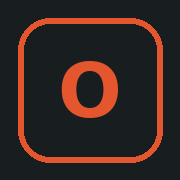
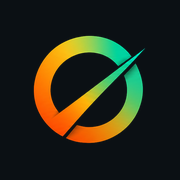
Add files via upload

diff --git a/index.html b/index.html
@@ -7,21 +7,26 @@
 <link rel="manifest" href="manifest.json">
 <link rel="icon" href="icon-192.png" type="image/png">
 <link rel="apple-touch-icon" href="icon-180.png">
-<meta name="theme-color" content="#E4572E">
+<meta name="theme-color" content="#0B1014">
 <link rel="preconnect" href="https://fonts.googleapis.com">
-<link href="https://fonts.googleapis.com/css2?family=Barlow+Condensed:wght@500;600;700&family=Inter:wght@400;500;600;700&family=JetBrains+Mono:wght@500;600&display=swap" rel="stylesheet">
+<link href="https://fonts.googleapis.com/css2?family=Sora:wght@500;600;700&family=Inter:wght@400;500;600;700&family=JetBrains+Mono:wght@500;600&display=swap" rel="stylesheet">
 <style>
   :root{
-    --bg:#181D20; --surface:#20272B; --surface2:#2A3237; --border:#3A434A;
-    --text:#ECEFEF; --text-muted:#8B979E; --accent:#E4572E; --accent-dim:#B8431F;
-    --ok:#4F9D69; --warn:#D9A441; --danger:#C1443A;
-    --font-head:'Barlow Condensed',sans-serif; --font-body:'Inter',sans-serif; --font-mono:'JetBrains Mono',monospace;
+    --bg:#0B1014; --surface:#121A20; --surface2:#1A242C; --border:#27343E;
+    --text:#EEF3F5; --text-muted:#8A9AA5; --accent:#FF7A1A; --accent-dim:#E0590A;
+    --ok:#22D39A; --warn:#FFB21F; --danger:#FF5468;
+    --on-accent:#0B1014; --brand-grad:linear-gradient(135deg,#FF5B02 0%,#FF9A0A 55%,#FFB800 100%);
+    --ok-bg:rgba(34,211,154,0.15); --warn-bg:rgba(255,178,31,0.16); --danger-bg:rgba(255,84,104,0.16);
+    --font-head:'Sora',sans-serif; --font-body:'Inter',sans-serif; --font-mono:'JetBrains Mono',monospace;
   }
   :root[data-theme="light"]{
-    --bg:#F5F3EF; --surface:#FFFFFF; --surface2:#ECE8E1; --border:#DAD5CC;
-    --text:#22282B; --text-muted:#6B7378; --accent:#D14E27; --accent-dim:#B8431F;
-    --ok:#3D8256; --warn:#B8811F; --danger:#B23A30;
+    --bg:#F3F6F7; --surface:#FFFFFF; --surface2:#E8EEF0; --border:#D3DCE1;
+    --text:#0F1A20; --text-muted:#5A6A74; --accent:#D94F00; --accent-dim:#B54000;
+    --ok:#0C8A63; --warn:#A86A00; --danger:#C4243A;
+    --ok-bg:rgba(12,138,99,0.12); --warn-bg:rgba(168,106,0,0.13); --danger-bg:rgba(196,36,58,0.11);
   }
+  .logo-wm{display:block;height:auto;}
+  :root[data-theme="light"] .logo-wm{filter:brightness(0) saturate(100%);opacity:.9;}
   .pw-rules{margin:8px 0 2px;padding:0;list-style:none;font-size:12px;color:var(--text-muted);}
   .pw-rules li{display:flex;align-items:center;gap:8px;padding:2px 0;transition:color .15s;}
   .pw-rules .box{width:16px;height:16px;border:1.5px solid var(--border);border-radius:4px;display:inline-flex;align-items:center;justify-content:center;font-size:11px;line-height:1;color:transparent;flex-shrink:0;transition:all .15s;}
@@ -31,7 +36,7 @@
   html,body{margin:0;padding:0;max-width:100%;overflow-x:hidden;background:var(--bg);color:var(--text);font-family:var(--font-body);height:100%;}
   body{padding-bottom:calc(120px + env(safe-area-inset-bottom));min-height:100vh;}
   h1,h2,h3{font-family:var(--font-head);font-weight:600;letter-spacing:0.2px;margin:0 0 4px 0;}
-  h1{font-size:26px;} h2{font-size:20px;} h3{font-size:16px;color:var(--text-muted);font-weight:600;}
+  h1{font-size:24px;} h2{font-size:18px;} h3{font-size:15px;color:var(--text-muted);font-weight:600;}
   p{margin:0;} a{color:var(--accent);}
   button{font-family:var(--font-body);cursor:pointer;border:none;}
   input,select,textarea{font-family:var(--font-body);}
@@ -39,7 +44,7 @@
   .topbar .brand{display:flex;flex-direction:row;align-items:center;}
   .topbar .brand small{color:var(--text-muted);font-size:11px;text-transform:uppercase;letter-spacing:1px;}
   .user-chip{display:flex;align-items:center;gap:8px;background:var(--surface);border:1px solid var(--border);border-radius:20px;padding:6px 12px 6px 6px;cursor:pointer;}
-  .user-dot{width:26px;height:26px;border-radius:50%;background:var(--accent);color:#fff;display:flex;align-items:center;justify-content:center;font-size:12px;font-weight:700;font-family:var(--font-head);flex-shrink:0;}
+  .user-dot{width:26px;height:26px;border-radius:50%;background:var(--brand-grad);color:var(--on-accent);display:flex;align-items:center;justify-content:center;font-size:12px;font-weight:700;font-family:var(--font-head);flex-shrink:0;}
   .user-chip .role{font-size:10px;color:var(--text-muted);text-transform:uppercase;letter-spacing:0.5px;display:block;}
   .user-chip .name{font-size:13px;font-weight:600;}
   main{padding:16px;padding-bottom:32px;max-width:640px;margin:0 auto;}
@@ -73,7 +78,7 @@
   .field input:focus,.field select:focus,.field textarea:focus{outline:none;border-color:var(--accent);}
   .field textarea{resize:vertical;min-height:70px;}
   .btn{display:inline-flex;align-items:center;justify-content:center;gap:8px;padding:12px 18px;border-radius:8px;font-size:14px;font-weight:600;width:100%;}
-  .btn-primary{background:var(--accent);color:#fff;} .btn-primary:active{background:var(--accent-dim);}
+  .btn-primary{background:var(--brand-grad);color:var(--on-accent);} .btn-primary:active{filter:brightness(.9);}
   .btn-primary:disabled{opacity:0.5;}
   .btn-secondary{background:var(--surface2);color:var(--text);border:1px solid var(--border);}
   .btn-ghost{background:transparent;color:var(--accent);padding:10px;}
@@ -81,9 +86,9 @@
   .btn-row{display:flex;gap:10px;margin-top:4px;flex-wrap:wrap;}
   .btn-row .btn{flex:1;min-width:110px;}
   .badge{font-size:10px;text-transform:uppercase;letter-spacing:0.5px;padding:3px 8px;border-radius:20px;font-weight:700;}
-  .badge-ok{background:rgba(79,157,105,0.18);color:var(--ok);}
-  .badge-warn{background:rgba(217,164,65,0.18);color:var(--warn);}
-  .badge-danger{background:rgba(193,68,58,0.18);color:var(--danger);}
+  .badge-ok{background:var(--ok-bg);color:var(--ok);}
+  .badge-warn{background:var(--warn-bg);color:var(--warn);}
+  .badge-danger{background:var(--danger-bg);color:var(--danger);}
   .mono{overflow-wrap:anywhere;font-family:var(--font-mono);font-size:13px;letter-spacing:0.3px;}
   .muted{color:var(--text-muted);font-size:13px;}
   .thumb{width:56px;height:56px;border-radius:8px;object-fit:cover;background:var(--surface2);border:1px solid var(--border);flex-shrink:0;}
@@ -93,7 +98,7 @@
   .search input{flex:1;background:var(--surface);border:1px solid var(--border);color:var(--text);border-radius:8px;padding:10px 12px;font-size:14px;}
   .filter-chips{display:flex;gap:6px;overflow-x:auto;margin-bottom:14px;padding-bottom:2px;}
   .chip{flex-shrink:0;padding:7px 13px;border-radius:20px;font-size:12px;font-weight:600;background:var(--surface);border:1px solid var(--border);color:var(--text-muted);}
-  .chip.active{background:var(--accent);color:#fff;border-color:var(--accent);}
+  .chip.active{background:var(--brand-grad);color:var(--on-accent);border-color:transparent;font-weight:700;}
   .navbar{position:fixed;bottom:0;left:0;right:0;background:var(--surface);border-top:1px solid var(--border);display:flex;z-index:10;padding-bottom:env(safe-area-inset-bottom);}
   .navitem{flex:1;display:flex;flex-direction:column;align-items:center;gap:2px;padding:9px 1px 7px;color:var(--text-muted);font-size:8.8px;text-transform:uppercase;letter-spacing:0.2px;font-weight:600;background:transparent;}
   .navitem.active{color:var(--accent);}
@@ -115,12 +120,12 @@
   .role-opt{display:flex;align-items:center;justify-content:space-between;background:var(--surface2);border:1px solid var(--border);border-radius:8px;padding:13px 14px;}
   .qr-status{font-size:13px;padding:10px 12px;border-radius:8px;margin-bottom:12px;}
   .qr-status.info{background:rgba(139,151,158,0.12);color:var(--text-muted);}
-  .qr-status.ok{background:rgba(79,157,105,0.15);color:var(--ok);}
-  .qr-status.err{background:rgba(193,68,58,0.15);color:var(--danger);}
+  .qr-status.ok{background:var(--ok-bg);color:var(--ok);}
+  .qr-status.err{background:var(--danger-bg);color:var(--danger);}
   .toast{position:fixed;bottom:84px;left:50%;transform:translateX(-50%);background:var(--surface2);border:1px solid var(--border);color:var(--text);padding:11px 18px;border-radius:20px;font-size:13px;font-weight:600;z-index:30;box-shadow:0 6px 20px rgba(0,0,0,0.4);max-width:88vw;text-align:center;}
   .tabs{display:flex;gap:6px;background:var(--surface);border:1px solid var(--border);border-radius:10px;padding:4px;margin-bottom:18px;}
   .tab{flex:1;text-align:center;padding:10px;border-radius:7px;font-size:13px;font-weight:600;color:var(--text-muted);background:transparent;}
-  .tab.active{background:var(--accent);color:#fff;}
+  .tab.active{background:var(--brand-grad);color:var(--on-accent);}
   .code-display{font-family:var(--font-mono);font-size:24px;letter-spacing:4px;text-align:center;padding:14px;background:var(--surface2);border:1px dashed var(--border);border-radius:8px;margin:10px 0;}
   .journal-item{padding:11px 0;border-bottom:1px solid var(--border);}
   .journal-item:last-child{border-bottom:none;}
@@ -156,7 +161,7 @@ const sb = (function(){
         '<div style="padding:60px 24px;text-align:center;max-width:420px;margin:0 auto;color:#ECEFEF;font-family:sans-serif;">'
         + "<h2 style=\"font-family:sans-serif;\">Impossible de charger l'application</h2>"
         + '<p style="color:#8B979E;margin:14px 0;font-size:14px;">' + e.message + '</p>'
-        + '<button onclick="location.reload()" style="background:#E4572E;color:#fff;border:none;padding:12px 20px;border-radius:8px;font-weight:600;font-size:14px;">Réessayer</button>'
+        + '<button onclick="location.reload()" style="background:linear-gradient(135deg,#FF5B02,#FFB800);color:#0B1014;border:none;padding:12px 20px;border-radius:8px;font-weight:600;font-size:14px;">Réessayer</button>'
         + '</div>';
     });
     if(document.readyState !== 'loading'){
@@ -164,7 +169,7 @@ const sb = (function(){
         '<div style="padding:60px 24px;text-align:center;max-width:420px;margin:0 auto;color:#ECEFEF;font-family:sans-serif;">'
         + "<h2 style=\"font-family:sans-serif;\">Impossible de charger l'application</h2>"
         + '<p style="color:#8B979E;margin:14px 0;font-size:14px;">' + e.message + '</p>'
-        + '<button onclick="location.reload()" style="background:#E4572E;color:#fff;border:none;padding:12px 20px;border-radius:8px;font-weight:600;font-size:14px;">Réessayer</button>'
+        + '<button onclick="location.reload()" style="background:linear-gradient(135deg,#FF5B02,#FFB800);color:#0B1014;border:none;padding:12px 20px;border-radius:8px;font-weight:600;font-size:14px;">Réessayer</button>'
         + '</div>';
     }
     return null;
@@ -457,7 +462,7 @@ async function submitPasswordReset(){
 function renderResetPassword(){
   return `
   <div style="padding:56px 24px 24px;max-width:420px;margin:0 auto;">
-    <h1 style="font-size:26px;">Nouveau mot de passe</h1>
+    <h1 style="font-size:22px;">Nouveau mot de passe</h1>
     <p class="muted" style="margin-bottom:22px;">Choisis un nouveau mot de passe pour ton compte OPTEPIA.</p>
     <div class="field"><label>Nouveau mot de passe</label>
       <div style="display:flex;gap:8px;"><input id="rp-new" type="password" style="flex:1;" autocomplete="new-password" oninput="updatePwRules('rp-new')"><button type="button" class="btn btn-ghost" style="width:auto;" onclick="togglePwVisibility('rp-new',this)">👁</button></div>
@@ -655,6 +660,7 @@ function renderTopbar(){
       </div>
       <small style="color:var(--text-muted);font-size:11px;">${esc(ROLES[state.role].label)} · changer d'unité</small>
     </div>
+    <img src="logo-mark.png" alt="Optepia" style="height:34px;width:auto;flex-shrink:0;margin-left:12px;">
   </div>`;
 }
 function renderNav(){
@@ -703,7 +709,7 @@ function renderAuth(){
   if(state.authMode==='confirmSent'){
     return `
     <div style="padding:70px 24px;max-width:420px;margin:0 auto;text-align:center;">
-      <h1 style="font-size:26px;">Vérifie ta boîte mail</h1>
+      <h1 style="font-size:22px;">Vérifie ta boîte mail</h1>
       <p class="muted" style="margin:14px 0 22px;">Un lien de confirmation vient d'être envoyé. Clique dessus, puis reviens ici pour te connecter.</p>
       <button class="btn btn-secondary" onclick="setAuthMode('login')">Retour à la connexion</button>
     </div>`;
@@ -711,7 +717,7 @@ function renderAuth(){
   if(state.authMode==='forgotSent'){
     return `
     <div style="padding:70px 24px;max-width:420px;margin:0 auto;text-align:center;">
-      <h1 style="font-size:26px;">Vérifie ta boîte mail</h1>
+      <h1 style="font-size:22px;">Vérifie ta boîte mail</h1>
       <p class="muted" style="margin:14px 0 22px;">Si un compte existe avec cette adresse, un lien pour choisir un nouveau mot de passe vient d'être envoyé. Pense à regarder dans les courriers indésirables.</p>
       <button class="btn btn-secondary" onclick="setAuthMode('login')">Retour à la connexion</button>
     </div>`;
@@ -719,7 +725,7 @@ function renderAuth(){
   if(state.authMode==='forgot'){
     return `
     <div style="padding:56px 24px 24px;max-width:420px;margin:0 auto;">
-      <h1 style="font-size:26px;">Mot de passe oublié</h1>
+      <h1 style="font-size:22px;">Mot de passe oublié</h1>
       <p class="muted" style="margin-bottom:22px;">Saisis l'adresse email de ton compte : nous t'enverrons un lien pour choisir un nouveau mot de passe.</p>
       <div class="field"><label>Email</label><input id="au-email" type="email" autocomplete="email"></div>
       ${TURNSTILE_SITE_KEY!=='REMPLACE_PAR_TA_CLE_TURNSTILE'?`<div class="cf-turnstile" data-theme="dark" style="margin-bottom:14px;"></div>`:''}
@@ -743,8 +749,11 @@ function renderMfaChallenge(){
 function renderAuthForm(isLogin){
   return `
   <div style="padding:56px 24px 24px;max-width:420px;margin:0 auto;">
-    <h1 style="font-size:28px;">OPTEPIA</h1>
-    <p class="muted" style="margin-bottom:26px;">Suivi du matériel de franchissement opérationnel.</p>
+    <div style="text-align:center;margin-bottom:26px;">
+      <img src="logo-mark.png" alt="" style="height:96px;width:auto;display:block;margin:0 auto 14px;">
+      <img class="logo-wm" src="logo-wordmark.png" alt="OPTEPIA" style="width:190px;margin:0 auto 10px;">
+      <p class="muted" style="font-size:12px;letter-spacing:1.5px;text-transform:uppercase;">Gérez · Contrôlez · Tracez</p>
+    </div>
     <div class="tabs">
       <button class="tab ${isLogin?'active':''}" onclick="setAuthMode('login')">Connexion</button>
       <button class="tab ${!isLogin?'active':''}" onclick="setAuthMode('signup')">Créer un compte</button>
@@ -2316,8 +2325,8 @@ function renderLoanSheet(){
     <p class="muted" style="font-size:12px;margin-bottom:12px;">Dans la fenêtre d'impression, choisis « Enregistrer au format PDF » pour obtenir un fichier.</p>
   </div>
   <div class="sheet">
-    <div style="display:flex;justify-content:space-between;align-items:flex-start;border-bottom:2px solid #E4572E;padding-bottom:8px;margin-bottom:14px;">
-      <div><div style="font-size:20px;font-weight:700;letter-spacing:1px;">OPTEPIA</div><div style="color:#555;">${esc(state.unit.name)}</div></div>
+    <div style="display:flex;justify-content:space-between;align-items:flex-start;border-bottom:2px solid #FF7A1A;padding-bottom:8px;margin-bottom:14px;">
+      <div style="display:flex;align-items:center;gap:12px;"><img src="logo-mark.png" alt="" style="height:38px;width:auto;"><div><div style="font-size:19px;font-weight:700;letter-spacing:2px;">OPTEPIA</div><div style="color:#555;">${esc(state.unit.name)}</div></div></div>
       <div style="text-align:right;color:#555;font-size:12px;">Édité le ${now.toLocaleDateString('fr-FR')} à ${now.toLocaleTimeString('fr-FR',{hour:'2-digit',minute:'2-digit'})}<br>par ${esc(state.myDisplayName)}</div>
     </div>
     <h1 style="font-size:18px;margin:0 0 12px;">${isPret?'Fiche de prêt de matériel':'Fiche de sortie en mission'}</h1>

diff --git a/confirmed.html b/confirmed.html
@@ -5,30 +5,31 @@
 <meta name="viewport" content="width=device-width, initial-scale=1, viewport-fit=cover">
 <title>OPTEPIA — Email confirmé</title>
 <link rel="icon" href="icon-192.png" type="image/png">
-<meta name="theme-color" content="#E4572E">
+<meta name="theme-color" content="#0B1014">
 <link rel="preconnect" href="https://fonts.googleapis.com">
-<link href="https://fonts.googleapis.com/css2?family=Barlow+Condensed:wght@600;700&family=Inter:wght@400;500;600&display=swap" rel="stylesheet">
+<link href="https://fonts.googleapis.com/css2?family=Sora:wght@600;700&family=Inter:wght@400;500;600&display=swap" rel="stylesheet">
 <style>
   :root{
-    --bg:#181D20; --surface:#20272B; --border:#3A434A;
-    --text:#ECEFEF; --text-muted:#8B979E; --accent:#E4572E;
-    --ok:#4F9D69;
-    --font-head:'Barlow Condensed',sans-serif; --font-body:'Inter',sans-serif;
+    --bg:#0B1014; --surface:#121A20; --border:#27343E;
+    --text:#EEF3F5; --text-muted:#8A9AA5; --accent:#FF7A1A;
+    --ok:#22D39A;
+    --font-head:'Sora',sans-serif; --font-body:'Inter',sans-serif;
   }
   *{box-sizing:border-box;}
   html,body{margin:0;padding:0;background:var(--bg);color:var(--text);font-family:var(--font-body);height:100%;}
   body{display:flex;align-items:center;justify-content:center;min-height:100vh;padding:24px;}
   .card{background:var(--surface);border:1px solid var(--border);border-radius:14px;padding:40px 28px;max-width:400px;width:100%;text-align:center;}
-  .check{width:64px;height:64px;border-radius:50%;background:rgba(79,157,105,0.15);display:flex;align-items:center;justify-content:center;margin:0 auto 20px;}
+  .check{width:64px;height:64px;border-radius:50%;background:rgba(34,211,154,0.15);display:flex;align-items:center;justify-content:center;margin:0 auto 20px;}
   h1{font-family:var(--font-head);font-weight:700;font-size:24px;margin:0 0 10px;}
   p{color:var(--text-muted);font-size:14px;line-height:1.5;margin:0 0 26px;}
-  a.btn{display:inline-block;background:var(--accent);color:#fff;text-decoration:none;font-weight:600;font-size:15px;padding:13px 28px;border-radius:8px;}
+  a.btn{display:inline-block;background:linear-gradient(135deg,#FF5B02,#FFB800);color:#0B1014;text-decoration:none;font-weight:600;font-size:15px;padding:13px 28px;border-radius:8px;}
 </style>
 </head>
 <body>
   <div class="card">
+    <img src="logo-mark.png" alt="OPTEPIA" style="height:64px;width:auto;display:block;margin:0 auto 18px;">
     <div class="check">
-      <svg width="30" height="30" viewBox="0 0 24 24" fill="none" stroke="#4F9D69" stroke-width="2.5" stroke-linecap="round" stroke-linejoin="round"><path d="M20 6 9 17l-5-5"/></svg>
+      <svg width="30" height="30" viewBox="0 0 24 24" fill="none" stroke="#22D39A" stroke-width="2.5" stroke-linecap="round" stroke-linejoin="round"><path d="M20 6 9 17l-5-5"/></svg>
     </div>
     <h1>Adresse confirmée</h1>
     <p>Ton adresse email est confirmée. Tu peux maintenant te connecter à OPTEPIA avec ton email et ton mot de passe.</p>
